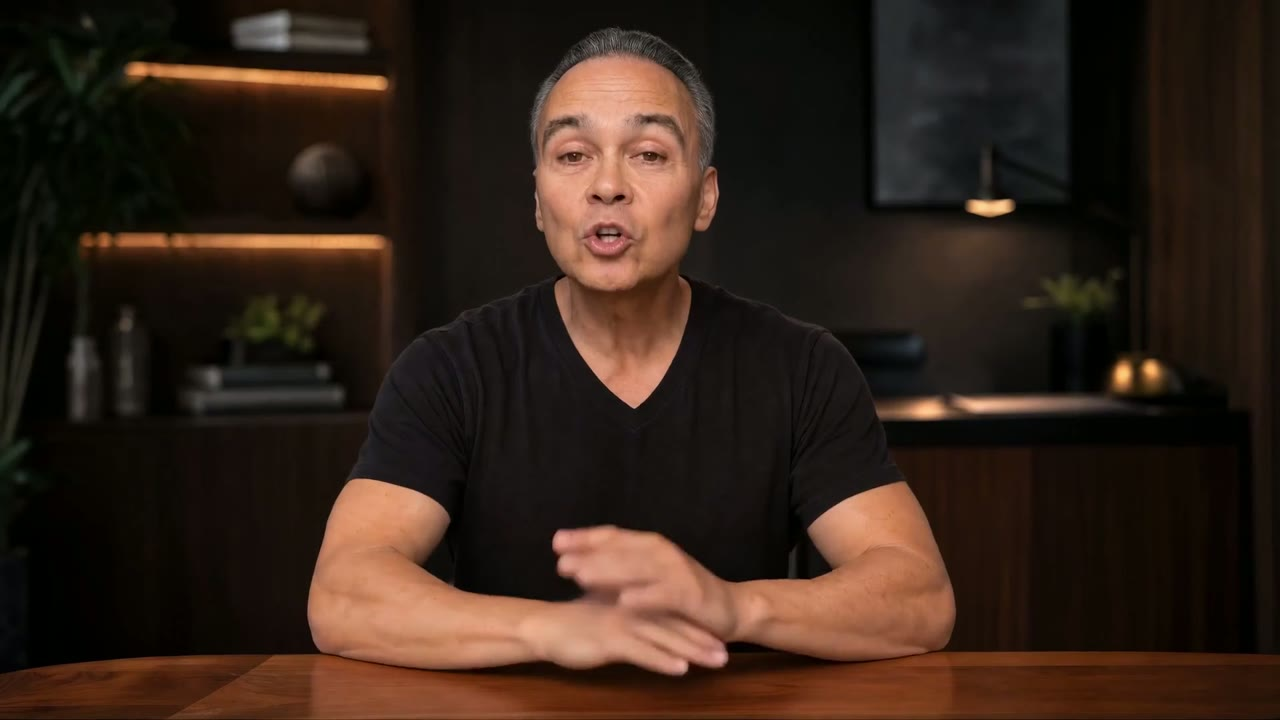
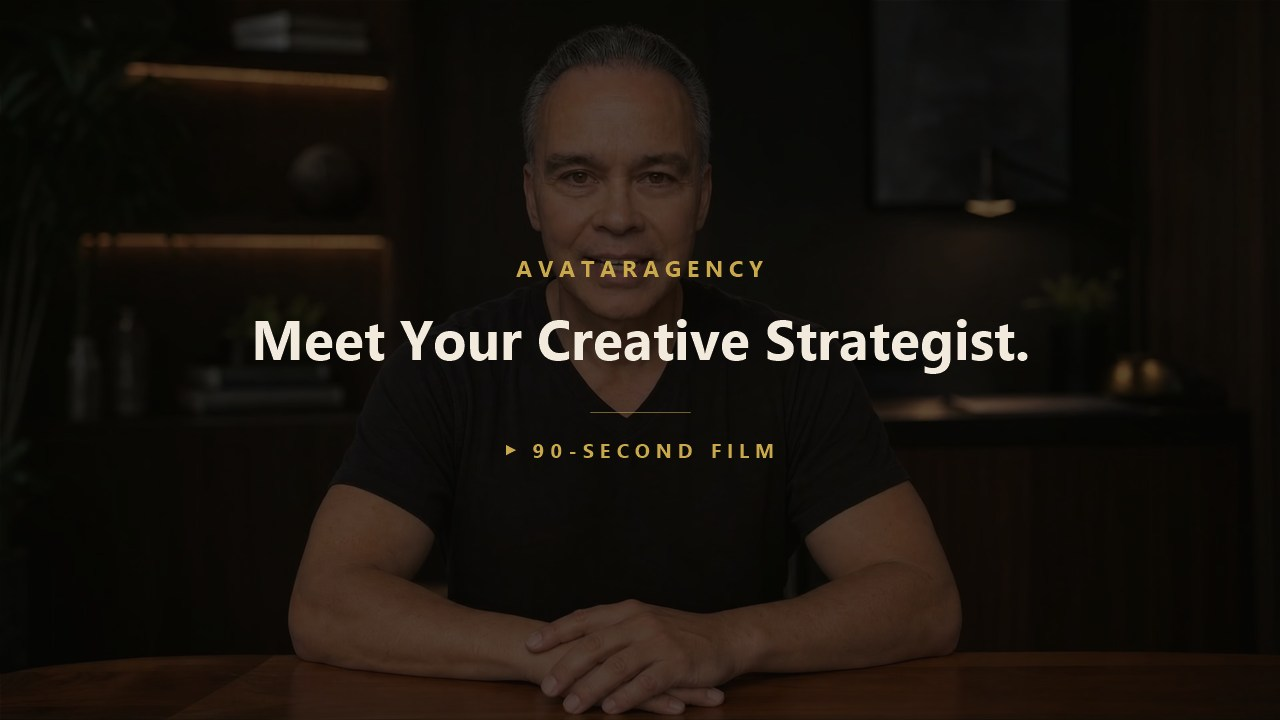
Strategist page: 30-minute session copy fix, title-card poster replaces freeze-frame

diff --git a/strategist/index.html b/strategist/index.html
@@ -202,11 +202,11 @@
           <a class="cta" href="https://calendly.com/michaelrivera007/free-consultation-meeting?month=2026-07">Book a Strategy Meeting</a>
           <a class="cta ghost" href="#how">See How It Works</a>
         </div>
-        <div class="cta-micro">20 minutes · no obligation · you leave with a plan either way</div>
+        <div class="cta-micro">30 minutes · no obligation · you leave with a plan either way</div>
       </div>
       <div class="hero-video">
         <div class="vsl">
-          <video id="vslPlayer" controls playsinline preload="metadata" poster="vsl-poster.jpg?v=1">
+          <video id="vslPlayer" controls playsinline preload="metadata" poster="vsl-poster.jpg?v=2">
             <source src="vsl.mp4?v=1" type="video/mp4">
           </video>
         </div>
@@ -317,7 +317,7 @@
     <div class="eyebrow">How It Works</div>
     <h2>Three steps. One of them is a phone call.</h2>
     <div class="steps">
-      <div class="step"><div class="n">1</div><h3>Book your strategy call</h3><p>Twenty minutes. We look at your market, your competitors, and where video moves the needle fastest for you.</p></div>
+      <div class="step"><div class="n">1</div><h3>Book your strategy call</h3><p>Thirty minutes. We look at your market, your competitors, and where video moves the needle fastest for you.</p></div>
       <div class="step"><div class="n">2</div><h3>We build your engine</h3><p>Capture session, digital twin, first productions. You approve everything before it ships.</p></div>
       <div class="step"><div class="n">3</div><h3>You show up everywhere</h3><p>New video, every platform, in your voice — while you stay focused on running the business.</p></div>
     </div>
@@ -367,7 +367,7 @@
 <div class="final" id="book">
   <div class="wrap">
     <div class="eyebrow">Your Move</div>
-    <h2>Twenty minutes from now,<br>you could have a plan.</h2>
+    <h2>Thirty minutes from now,<br>you could have a plan.</h2>
     <p class="sub" style="color:var(--muted);margin:22px auto 32px;max-width:52ch">Free strategy call. We'll map exactly how a creative strategist and the newest AI put your face in front of your market — and you keep the plan whether we work together or not.</p>
     <a class="cta" href="https://calendly.com/michaelrivera007/free-consultation-meeting?month=2026-07">Book a Strategy Meeting</a>
   </div>
